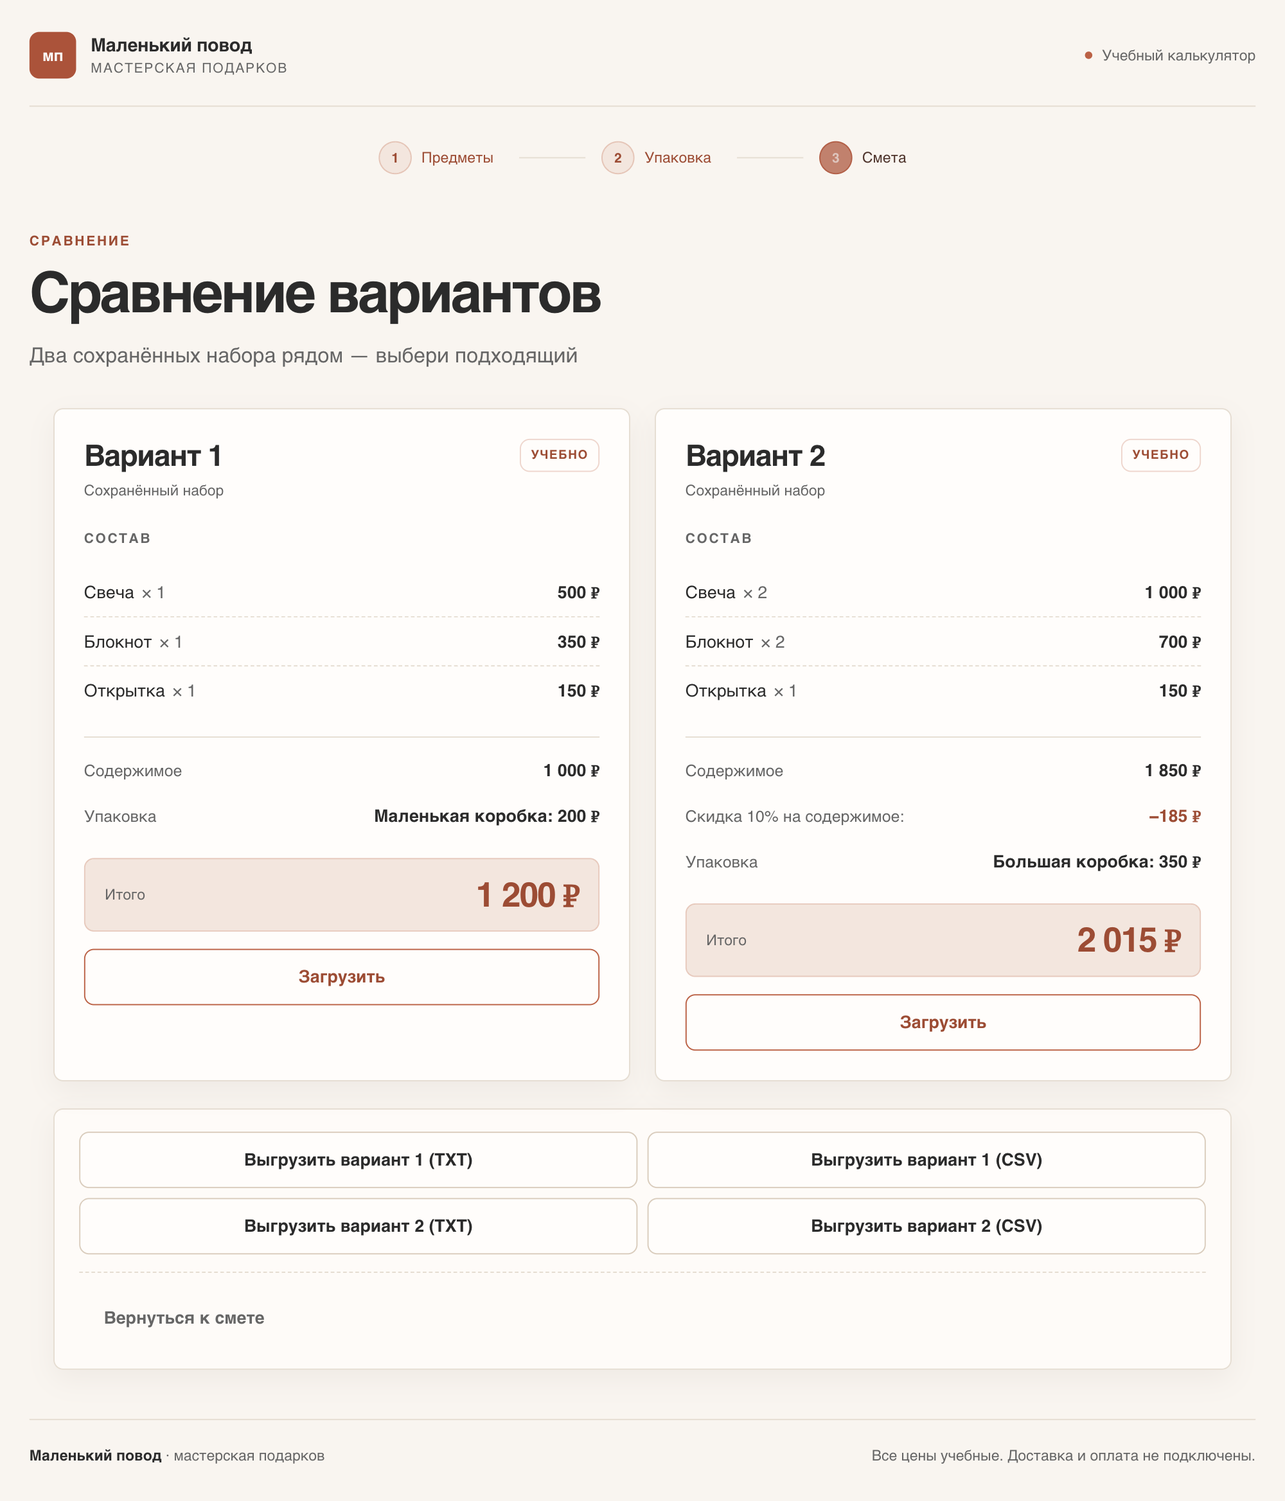
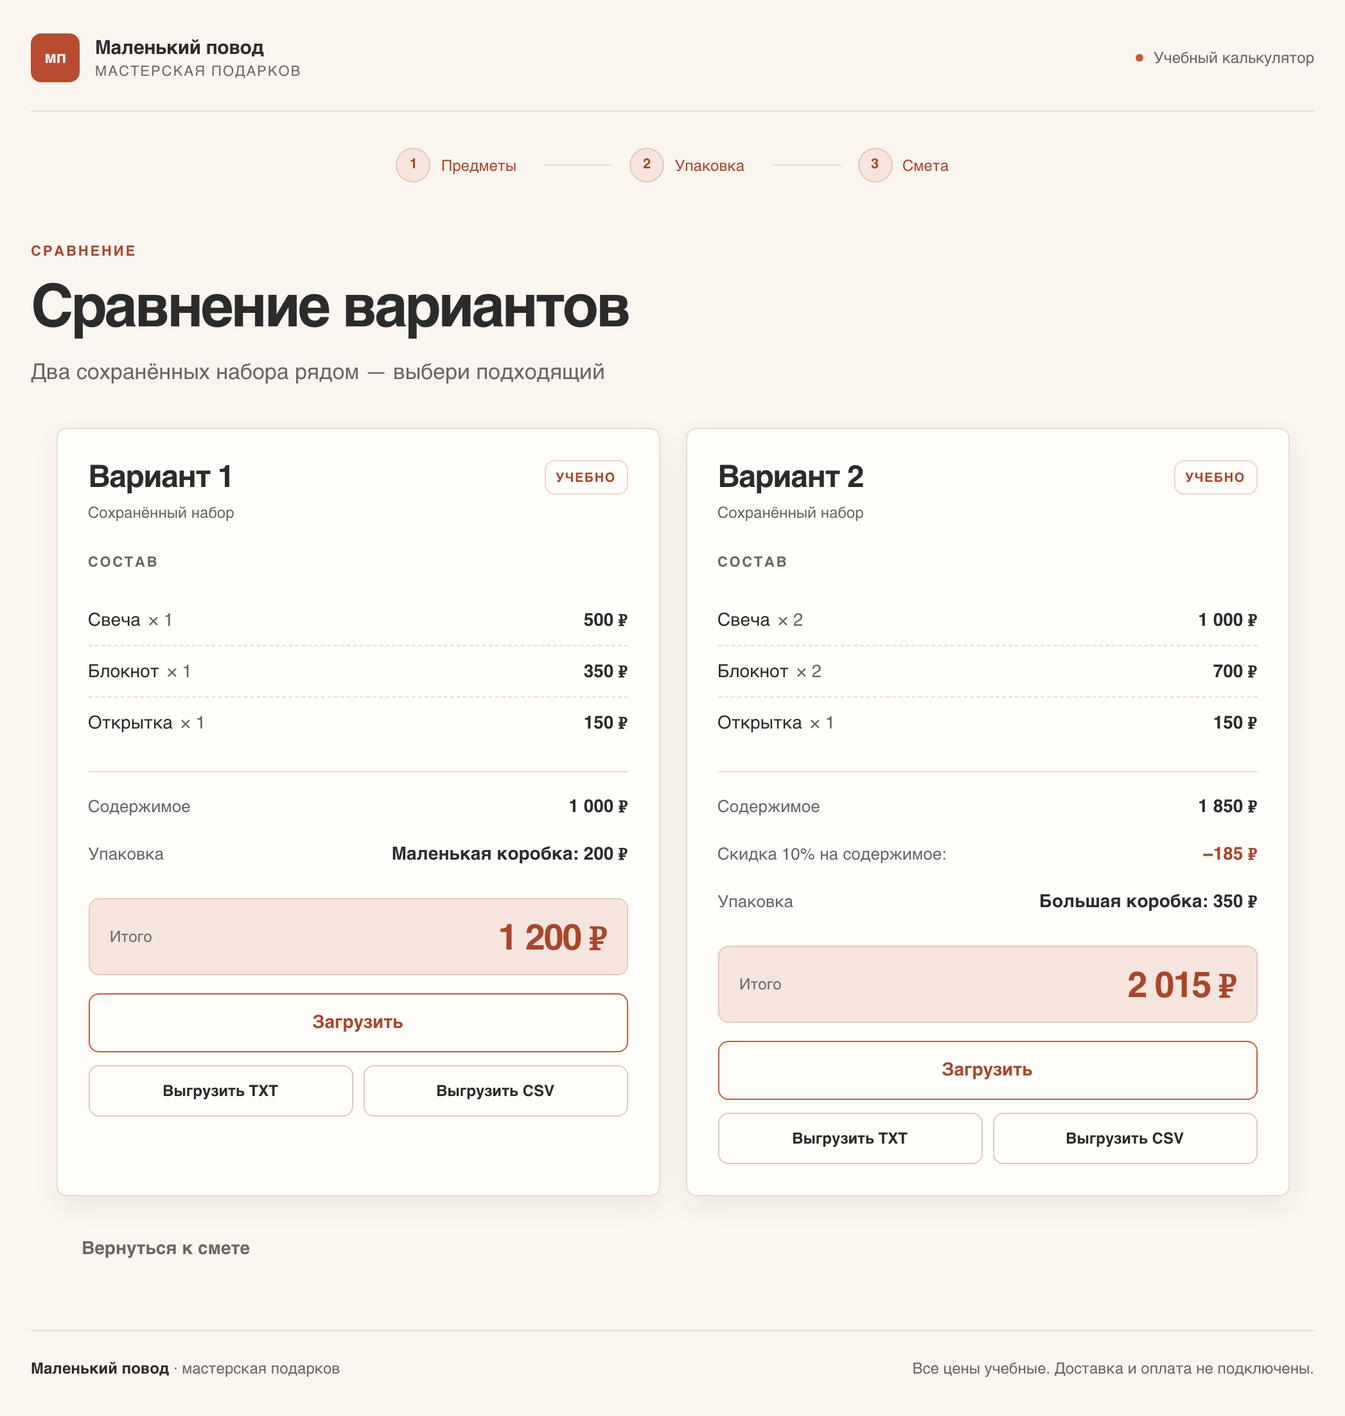
check & comparing fixed

diff --git a/index.html b/index.html
@@ -1280,7 +1280,8 @@
 
     /* === НОВЫЕ КЛАССЫ: сохранение и сравнение вариантов === */
     .saved-variants-panel {
-      margin-bottom: 24px;
+      max-width: 960px;
+      margin: 24px auto 0;
       padding: 20px;
       border: 1px solid var(--line);
       border-radius: var(--radius);
@@ -1540,29 +1541,21 @@
       margin-top: 14px;
     }
 
+    .compare-card-exports {
+      display: flex;
+      gap: 8px;
+      margin-top: 10px;
+    }
+
+    .compare-card-exports .btn {
+      min-height: 40px;
+      flex: 1;
+      padding: 9px 12px;
+      font-size: 12px;
+    }
+
     .compare-actions {
-      margin-top: 22px;
-      padding: 18px 20px;
-      border: 1px solid var(--line);
-      border-radius: var(--radius);
-      background: rgba(255, 253, 250, 0.78);
-      box-shadow: var(--shadow-sm);
-    }
-
-    .compare-exports {
-      display: flex;
-      flex-direction: column;
-      gap: 8px;
-    }
-
-    .compare-export-row {
-      display: flex;
-      flex-wrap: wrap;
-      gap: 8px;
-    }
-
-    .compare-export-row .btn {
-      flex: 1 1 210px;
+      margin-top: 18px;
     }
 
     .compare-footer-row {
@@ -1570,9 +1563,6 @@
       align-items: center;
       justify-content: space-between;
       gap: 16px;
-      margin-top: 14px;
-      padding-top: 14px;
-      border-top: 1px dashed var(--line);
     }
 
     .compare-status {
@@ -1690,13 +1680,8 @@
         padding: 20px;
       }
 
-      .compare-export-row {
+      .compare-card-exports {
         flex-direction: column;
-      }
-
-      .compare-export-row .btn {
-        width: 100%;
-        flex-basis: auto;
       }
 
       .compare-footer-row {
@@ -1843,7 +1828,7 @@
             <span class="summary-price" id="items-content">0 ₽</span>
           </div>
           <div class="action-side">
-            <p class="helper-text" id="items-helper">Добавь хотя бы один предмет</p>
+            <p class="helper-text" id="items-helper" aria-live="polite">Добавь хотя бы один предмет</p>
             <button class="btn btn-primary" type="button" id="to-packaging" disabled>
               Выбрать коробку
               <span class="btn-arrow" aria-hidden="true">→</span>
@@ -1934,17 +1919,6 @@
           <p class="subtitle">Проверь состав и скачай расчёт — это не заказ и не оплата</p>
         </div>
 
-        <div class="saved-variants-panel" aria-labelledby="saved-variants-title">
-          <div class="saved-variants-head">
-            <div>
-              <h2 class="saved-variants-title" id="saved-variants-title">Сохранённые варианты</h2>
-              <p class="saved-variants-hint">Сохрани до двух наборов и сравни их между собой</p>
-            </div>
-            <button class="btn btn-secondary" type="button" id="compare-variants" disabled>Сравнить варианты</button>
-          </div>
-          <div class="saved-variants-grid" id="saved-variants-grid"></div>
-        </div>
-
         <div class="estimate-shell">
           <article class="estimate-card" aria-labelledby="estimate-card-title">
             <div class="receipt-top">
@@ -2001,6 +1975,17 @@
             </div>
           </article>
         </div>
+
+        <div class="saved-variants-panel" aria-labelledby="saved-variants-title">
+          <div class="saved-variants-head">
+            <div>
+              <h2 class="saved-variants-title" id="saved-variants-title">Сохранённые варианты</h2>
+              <p class="saved-variants-hint">Сохрани до двух наборов и сравни их между собой</p>
+            </div>
+            <button class="btn btn-secondary" type="button" id="compare-variants" disabled>Сравнить варианты</button>
+          </div>
+          <div class="saved-variants-grid" id="saved-variants-grid"></div>
+        </div>
       </section>
 
       <section id="screen-compare" class="screen" data-screen="4" hidden>
@@ -2014,16 +1999,6 @@
           <div class="compare-grid" id="compare-grid"></div>
 
           <div class="compare-actions">
-            <div class="compare-exports" aria-label="Выгрузка сохранённых вариантов">
-              <div class="compare-export-row">
-                <button class="btn btn-secondary" type="button" id="export-variant-1-txt">Выгрузить вариант 1 (TXT)</button>
-                <button class="btn btn-secondary" type="button" id="export-variant-1-csv">Выгрузить вариант 1 (CSV)</button>
-              </div>
-              <div class="compare-export-row">
-                <button class="btn btn-secondary" type="button" id="export-variant-2-txt">Выгрузить вариант 2 (TXT)</button>
-                <button class="btn btn-secondary" type="button" id="export-variant-2-csv">Выгрузить вариант 2 (CSV)</button>
-              </div>
-            </div>
             <div class="compare-footer-row">
               <button class="btn btn-ghost" type="button" id="back-to-estimate">Вернуться к смете</button>
               <p class="compare-status" id="compare-status" aria-live="polite"></p>
@@ -2083,6 +2058,7 @@
       };
 
       const MAX_QTY = 3;
+      const MAX_TOTAL_ITEMS = BOXES.large.capacity;
       const DISCOUNT_THRESHOLD = 5;
       const DISCOUNT_RATE = 0.1;
       const ERROR_INTEGER = "Количество — целое число от 0 до 3";
@@ -2225,16 +2201,19 @@
         const items = totalItems();
         const content = contentTotal();
         const firstError = ITEMS.map((item) => state.inputErrors[item.key]).find(Boolean);
+        const exceedsTotal = items > MAX_TOTAL_ITEMS;
 
         els.itemsCount.textContent = `${items} ${itemWord(items)}`;
         els.itemsContent.textContent = formatMoney(content);
-        els.toPackaging.disabled = items === 0 || Boolean(firstError);
-        els.itemsHelper.classList.toggle("is-error", Boolean(firstError));
+        els.toPackaging.disabled = items === 0 || Boolean(firstError) || exceedsTotal;
+        els.itemsHelper.classList.toggle("is-error", Boolean(firstError) || exceedsTotal);
 
         if (firstError) {
           els.itemsHelper.textContent = firstError;
         } else if (items === 0) {
           els.itemsHelper.textContent = "Добавь хотя бы один предмет";
+        } else if (exceedsTotal) {
+          els.itemsHelper.textContent = `Максимум ${MAX_TOTAL_ITEMS} ${itemWord(MAX_TOTAL_ITEMS)} — убери лишние`;
         } else if (items < DISCOUNT_THRESHOLD) {
           const left = DISCOUNT_THRESHOLD - items;
           els.itemsHelper.textContent = `До скидки 10% — ещё ${left} ${itemWord(left)}`;
@@ -2300,7 +2279,7 @@
         if (!validateAllItems()) return;
 
         const items = totalItems();
-        if (items === 0) {
+        if (items === 0 || items > MAX_TOTAL_ITEMS) {
           renderItems();
           return;
         }
@@ -2906,7 +2885,21 @@
         loadButton.dataset.compareLoad = String(index);
         loadButton.textContent = "Загрузить";
 
-        card.append(head, compositionTitle, composition, summary, totalBox, loadButton);
+        const exportRow = document.createElement("div");
+        exportRow.className = "compare-card-exports";
+        exportRow.setAttribute("aria-label", `Выгрузка варианта ${index + 1}`);
+
+        ["txt", "csv"].forEach((format) => {
+          const button = document.createElement("button");
+          button.type = "button";
+          button.className = "btn btn-secondary";
+          button.dataset.compareExport = format;
+          button.dataset.compareVariant = String(index);
+          button.textContent = `Выгрузить ${format.toUpperCase()}`;
+          exportRow.appendChild(button);
+        });
+
+        card.append(head, compositionTitle, composition, summary, totalBox, loadButton, exportRow);
         return card;
       }
 
@@ -3049,30 +3042,24 @@
       savedEls.compareButton.addEventListener("click", openCompareScreen);
 
       savedEls.compareGrid.addEventListener("click", (event) => {
-        const button = event.target.closest("[data-compare-load]");
-        if (!button) return;
-        loadSavedVariant(Number(button.dataset.compareLoad));
+        const loadButton = event.target.closest("[data-compare-load]");
+        if (loadButton) {
+          loadSavedVariant(Number(loadButton.dataset.compareLoad));
+          return;
+        }
+
+        const exportButton = event.target.closest("[data-compare-export]");
+        if (exportButton) {
+          exportComparedVariant(
+            Number(exportButton.dataset.compareVariant),
+            exportButton.dataset.compareExport
+          );
+        }
       });
 
       $("#back-to-estimate").addEventListener("click", () => {
         showScreen(3);
         renderSavedVariants();
-      });
-
-      $("#export-variant-1-txt").addEventListener("click", () => {
-        exportComparedVariant(0, "txt");
-      });
-
-      $("#export-variant-1-csv").addEventListener("click", () => {
-        exportComparedVariant(0, "csv");
-      });
-
-      $("#export-variant-2-txt").addEventListener("click", () => {
-        exportComparedVariant(1, "txt");
-      });
-
-      $("#export-variant-2-csv").addEventListener("click", () => {
-        exportComparedVariant(1, "csv");
       });
 
       $$("[data-replace-slot]", savedEls.modal).forEach((button) => {

diff --git a/README.md b/README.md
@@ -49,7 +49,7 @@
   <img src="images/app-estimate.png" alt="Экран сметы с двумя сохранёнными вариантами" width="820">
 </p>
 
-<p align="center"><sub>Экран сметы: два сохранённых варианта, расчёт со скидкой и итоговая сумма</sub></p>
+<p align="center"><sub>Экран сметы: расчёт со скидкой, итоговая сумма и сохранённые варианты ниже сметы</sub></p>
 
 ### GitHub Pages
 
@@ -62,6 +62,7 @@
 
 - Три шага сборки: **Предметы → Упаковка → Смета**.
 - Свеча, блокнот и открытка: до 3 штук каждого вида.
+- Ограничение 6 предметов на шаге 1: при превышении появляется предупреждение, кнопка «Выбрать коробку» блокируется. Когда предметов снова 6 или меньше, предупреждение исчезает, кнопка активируется.
 - Автоматический подбор коробки по количеству предметов.
 - Проверка вместимости: если предметов больше, чем помещается в выбранную коробку, итог не подтверждается.
 - Скидка 10% на содержимое при 5–6 предметах; упаковка в скидке не участвует.
@@ -105,17 +106,17 @@
 - Каждый слот показывает состав, размер коробки и итог, а также кнопки **«Загрузить»** и **«Удалить»**.
 - **«Сравнить варианты»** активна только при двух заполненных слотах.
 
-На экране сравнения два варианта показаны рядом на десктопе и друг под другом на мобильном. В каждой колонке есть состав, содержимое, скидка, упаковка и итог. Отсюда можно загрузить вариант обратно в калькулятор или выгрузить его отдельно:
+На экране сравнения два варианта показаны рядом на десктопе и друг под другом на мобильном. В каждой колонке есть состав, содержимое, скидка, упаковка, итог, кнопка **«Загрузить»** и собственные кнопки выгрузки **«Выгрузить TXT»** и **«Выгрузить CSV»**. Отсюда можно загрузить вариант обратно в калькулятор или скачать его отдельно:
 
-- `smeta-variant-1.txt` / `smeta-variant-1.csv`;
-- `smeta-variant-2.txt` / `smeta-variant-2.csv`;
+- `smeta-variant-1.txt` / `smeta-variant-1.csv` — кнопки под вариантом 1;
+- `smeta-variant-2.txt` / `smeta-variant-2.csv` — кнопки под вариантом 2;
 - текущая смета через универсальные функции — `smeta-current.txt` / `smeta-current.csv`.
 
 <p align="center">
   <img src="images/app-compare.png" alt="Экран сравнения двух вариантов набора" width="820">
 </p>
 
-<p align="center"><sub>Сравнение: 1 200 ₽ и 2 015 ₽, состав, скидка и упаковка в двух колонках</sub></p>
+<p align="center"><sub>Сравнение: 1 200 ₽ и 2 015 ₽, состав, скидка, упаковка и кнопки выгрузки под каждым вариантом</sub></p>
 
 Сохранённые варианты хранятся в памяти браузера и не переживают перезагрузку страницы — это осознанное ограничение, чтобы сохранить принцип «одного HTML-файла» без бэкенда.
 
@@ -244,6 +245,7 @@
 | Возврат | «Вернуться к смете» |
 | Ошибка количества | «Количество — целое число от 0 до 3» |
 | Превышение лимита | «Одного вида может быть не больше 3» |
+| Превышение общего лимита | «Максимум 6 предметов — убери лишние» |
 | Дисклеймер | «Это учебная смета, а не заказ и не оплата» |
 
 ## Проверка
@@ -265,9 +267,15 @@
 | А | Сохранение первого варианта (1 свеча + 1 блокнот + 1 открытка + маленькая = 1 200 ₽) | Кнопка «Сохранить вариант» | Слот 1 заполнен: «1 свеча, 1 блокнот, 1 открытка, маленькая, 1 200 ₽» | Слот 1 заполнен, уведомление «Вариант 1 сохранён» | ✅ Пройден |
 | Б | Сохранение второго варианта (2 свечи + 2 блокнота + 1 открытка + большая = 2 015 ₽) | Второй слот + активация кнопки «Сравнить» | Слот 2 заполнен, кнопка «Сравнить варианты» активна | Слот 2 заполнен, кнопка «Сравнить» активна | ✅ Пройден |
 | В | Загрузка варианта из слота | Кнопка «Загрузить» | Текущий набор = загруженный вариант, показана смета, счётчики обновлены | Счётчики обновлены, смета соответствует варианту | ✅ Пройден |
-| Г | Выгрузка варианта с экрана сравнения | Кнопки «Выгрузить вариант N (TXT/CSV)» | Скачан файл smeta-variant-N.txt/.csv с корректными данными | Файл скачан, содержимое совпадает со сметой варианта | ✅ Пройден |
+| Г | Выгрузка варианта с экрана сравнения | Кнопки «Выгрузить TXT» / «Выгрузить CSV» под каждым вариантом | Скачан файл smeta-variant-N.txt/.csv с корректными данными | Файл скачан, содержимое совпадает со сметой варианта | ✅ Пройден |
 | Д | Замена занятого слота | Кнопка «Сохранить вариант» при двух заполненных слотах | Модальное окно: «Заменить 1» / «Заменить 2» / «Отмена» | Модальное окно показано, замена работает | ✅ Пройден |
 | Е | Удаление слота | Кнопка «Удалить» | Слот пуст, кнопка «Сравнить варианты» неактивна | Слот очищен, кнопка «Сравнить» заблокирована | ✅ Пройден |
+
+### Доработки после проверки
+
+- Ограничение 6 предметов на шаге 1: при 7 и более предметах появляется предупреждение, кнопка «Выбрать коробку» блокируется; при возврате к 6 и меньше предупреждение исчезает, кнопка снова активна.
+- Блок «Сохранённые варианты» расположен ниже основной сметы.
+- Кнопки выгрузки TXT и CSV находятся в карточке соответствующего варианта.
 
 ### Сравнение вариантов
 
